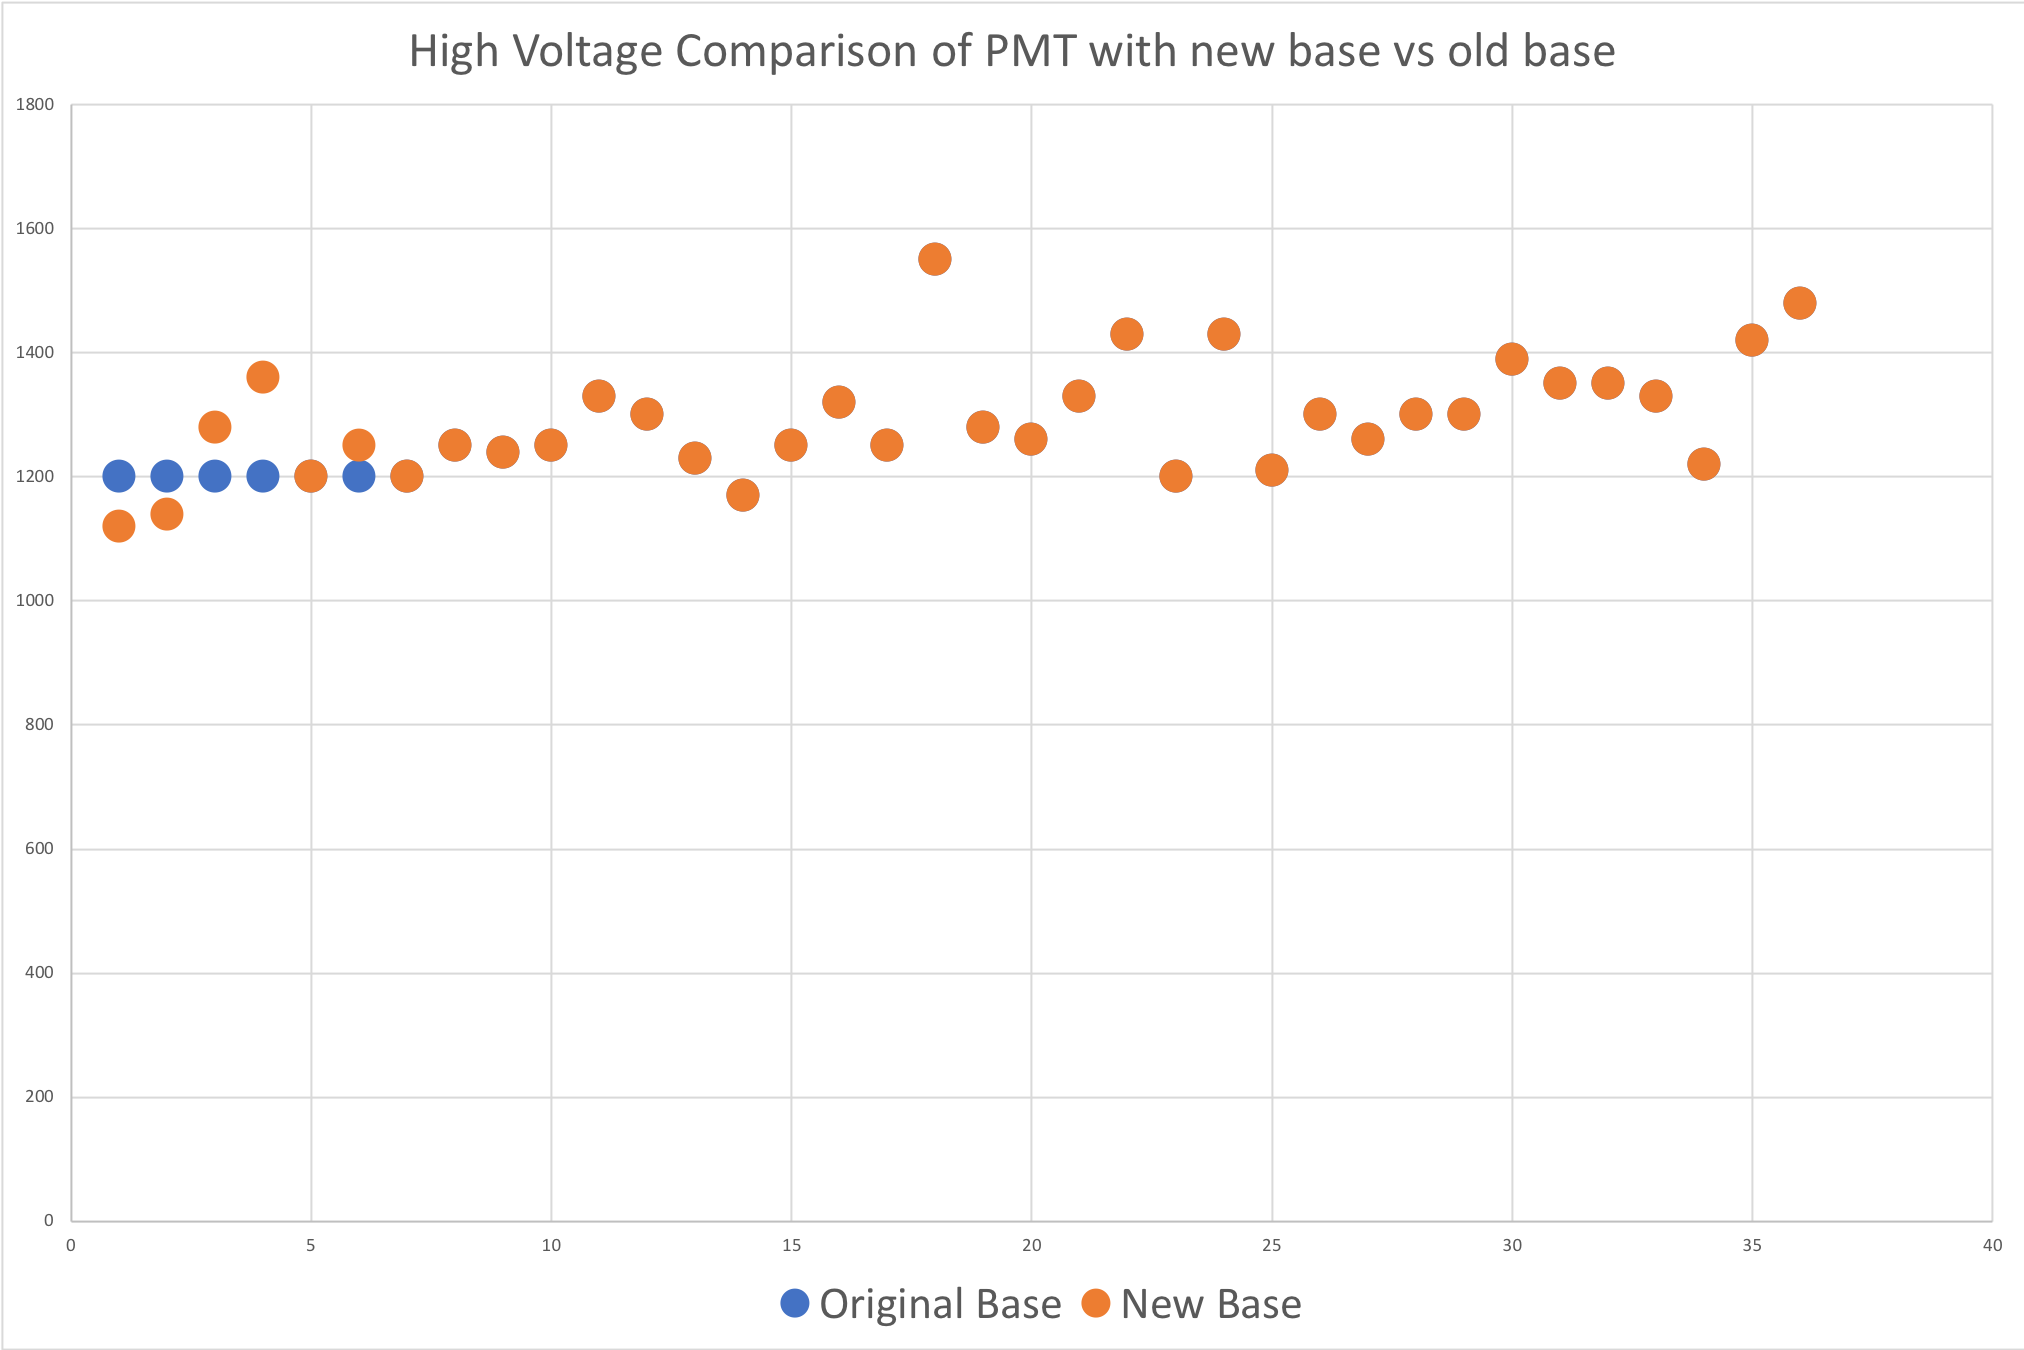
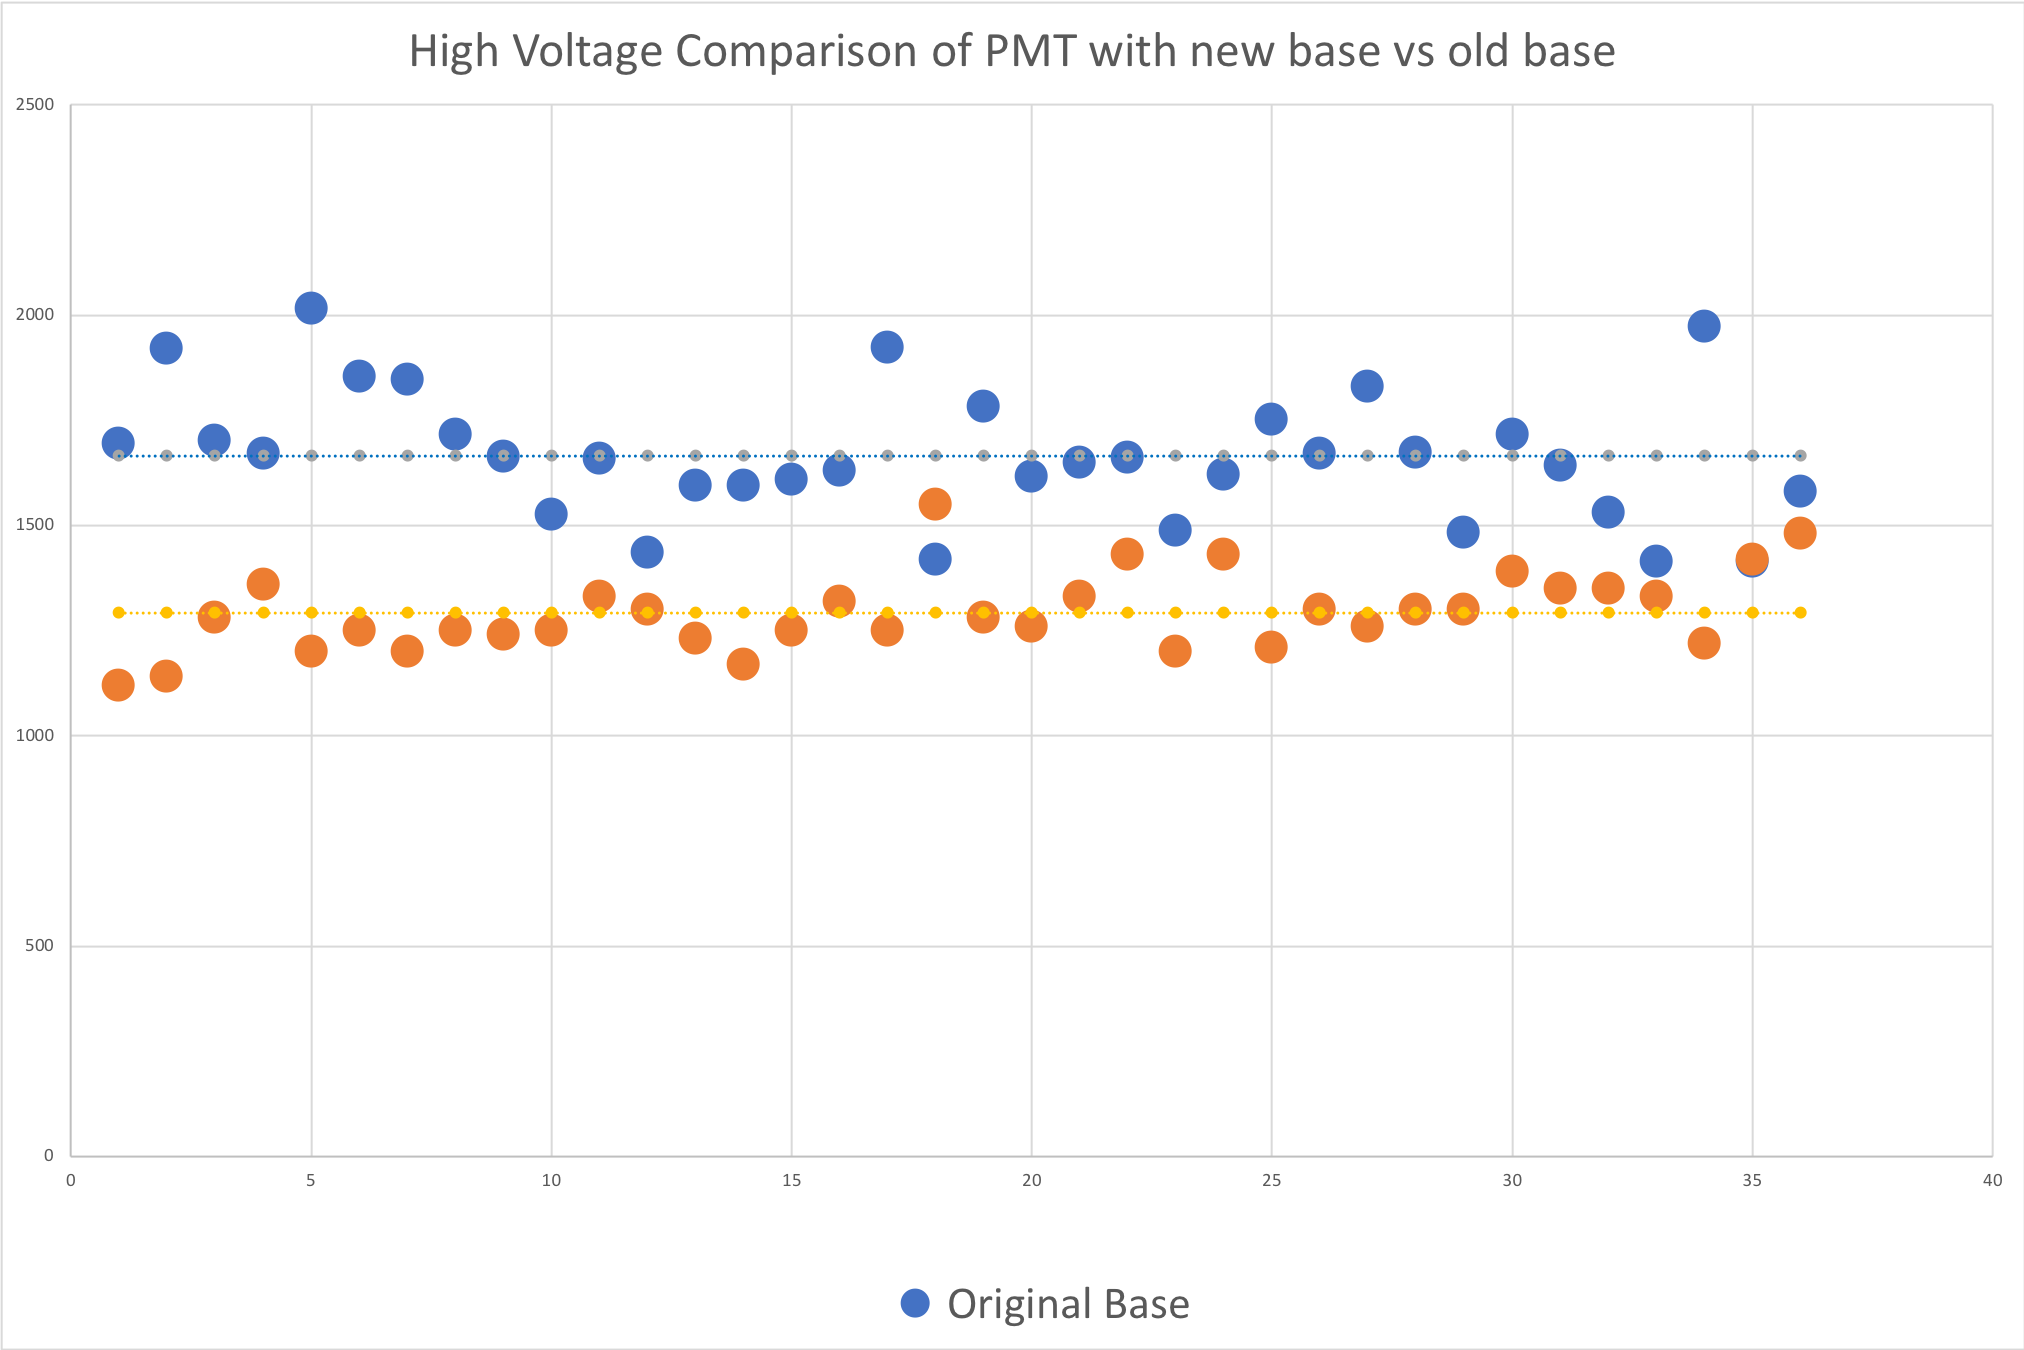
added hv gain picture, and excel file

diff --git a/ltcc/pmtBase.tex b/ltcc/pmtBase.tex
@@ -51,13 +51,14 @@ coming from the external dedicated splitter and amplifier through the ADC electr
 
 180 bases assembled at Jefferson Lab and installed on the PMT dividers. Both signals from all the modified bases were tested.
 The response of the PMTs to the SPE resulted identical to the original output after it was amplified by a factor of 10, with one
-clear advantage: the new bases allowed the PMTs to run at a HV average of 300 Volts less, see \F{pmtHVImprovement}.
+clear advantage: the new bases allowed the PMTs to run at a HV average of 360 Volts less, see \F{pmtHVImprovement}.
 
 
 
 \begin{figure}
 	\centering
 	\includegraphics[width=0.95\columnwidth,keepaspectratio]{img/pmtHVImprovement.png}
-	\caption{The PMTs with the modified bases could produce the same response function of the original base but at about 300 HV less voltage.}
+	\caption{Comparison of sector 5 gain matched PMT high voltages that provide a SPE peak at about ADC channel 200.
+            The PMTs with the modified bases could produce the same response function of the original base but at about 360 HV less voltage (1666 V vs 1292 V)}
 	\label{fig:pmtHVImprovement}
 \end{figure}
